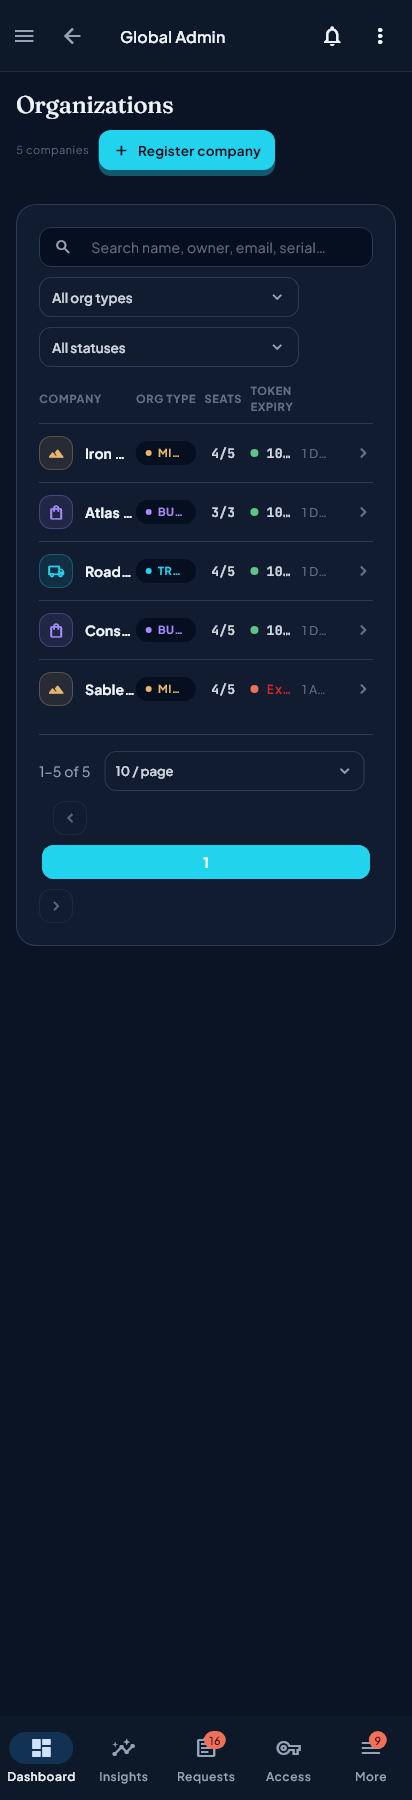
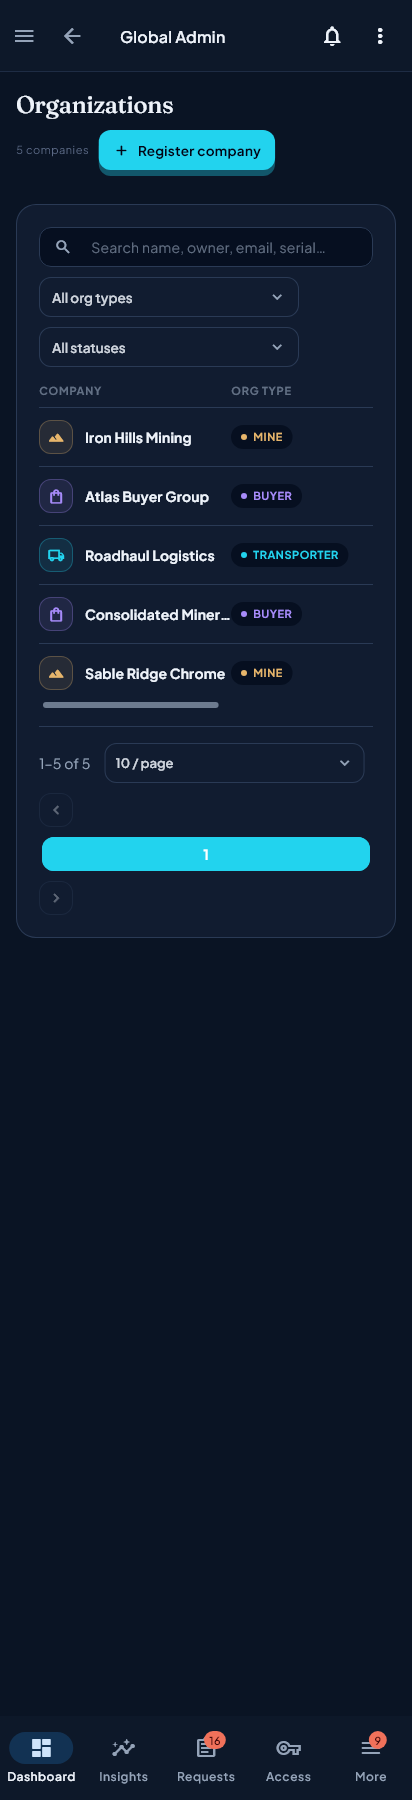
registry: a console screen that was blank on a phone, and an assertion the renders were hiding
THE ORGANISATION REGISTRY HAD NO READABLE COLUMN AT 412px.

Its four columns are `Expanded`s with no minimum, so each got about 70px and
every one truncated:

  COMPANY       "Iron …"  "Atlas …"  "Road…"  "Cons…"  "Sable…"
  ORG TYPE      "MI…"     "BU…"      "TR…"
  TOKEN EXPIRY  "10…"     "1D…"      "Ex…"    "1A…"

A registry where no column can be read is not a narrow registry, it is a blank
one — and it passed every sweep, because an ellipsis is a layout that fits.

`MlWideTable(minWidth: 620)`, header and rows inside ONE of them so they scroll
together. 620 is what the content needs: a company name wants ~180px at flex 16,
the "TRANSPORTER" pill ~100px at flex 10, the expiry ~110px at flex 13 — the
widest puts the table at 584 plus the 44px chevron column. So it never scrolls
on a laptop and always scrolls on a phone, which is the right way round, and the
test asserts BOTH directions.

A `Spacer` INSIDE A `Wrap`, THROWING ON EVERY BUILD.

A `Spacer` is an `Expanded`, and a `Wrap` cannot accept `FlexParentData` — the
footer threw "Incorrect use of ParentDataWidget" on every frame of this screen,
in debug, which is every frame a developer sees. The comment directly above that
`Wrap` claimed "every child here is unflexed"; the Spacer is what falsified it,
presumably left behind when the footer changed from a `Row`.

Nothing replaces it. A Wrap has no free space to distribute, so the Spacer could
not have pushed the pager right even if it had been legal.
[…]

Changed region(s): [[0.0874, 0.2178, 0.8155, 0.4356], [0.0874, 0.4667, 0.9029, 0.4978], [0.8155, 0.4044, 0.8447, 0.4356]]

diff --git a/test/features/super_admin/organizations_registry_test.dart b/test/features/super_admin/organizations_registry_test.dart
@@ -1,0 +1,109 @@
+// The registry is the console's front door, and on a phone it was blank.
+//
+// `OrganizationManagementScreen` lays its four columns out as `Expanded`s with
+// no minimum, so at 412px each got roughly 70px and every one truncated:
+//
+//   COMPANY       "Iron …"  "Atlas …"  "Road…"  "Cons…"  "Sable…"
+//   ORG TYPE      "MI…"     "BU…"      "TR…"
+//   TOKEN EXPIRY  "10…"     "1D…"      "Ex…"    "1A…"
+//
+// A registry where no column can be read is not a narrow registry, it is a
+// blank one — and it passed every sweep, because an ellipsis is a layout that
+// fits. Found 2026-08-20 by rendering the screen at phone width for the first
+// time.
+//
+// The fix is `MlWideTable`: the table scrolls sideways below the width its own
+// content needs, rather than compressing into it.
+import 'package:flutter/material.dart';
+import 'package:flutter/rendering.dart';
+import 'package:flutter_riverpod/flutter_riverpod.dart';
+import 'package:flutter_test/flutter_test.dart';
+import 'package:shared_preferences/shared_preferences.dart';
+import 'package:supabase_flutter/supabase_flutter.dart';
+
+import 'package:flutter_application_1/core/design/components/ml_components.dart';
+import 'package:flutter_application_1/core/theme/app_theme.dart';
+import 'package:flutter_application_1/features/super_admin/screens/organization_management_screen.dart';
+
+import '../../fixtures/console_capture_fixtures.dart';
+import '../../fixtures/screen_fixtures.dart';
+import '../../test_helpers/real_fonts.dart';
+
+void main() {
+  setUpAll(() async {
+    await loadRealFonts();
+    SharedPreferences.setMockInitialValues({});
+    await Supabase.initialize(
+      url: 'http://localhost:54321',
+      anonKey: 'org-registry',
+    );
+  });
+
+  Future<void> pumpRegistry(WidgetTester tester, double width) async {
+    tester.view.physicalSize = Size(width, 1800);
+    tester.view.devicePixelRatio = 1.0;
+    addTearDown(tester.view.reset);
+    await tester.pumpWidget(ProviderScope(
+      overrides: [...companyScopeOverrides(), ...consoleCaptureOverrides()],
+      child: MaterialApp(
+        theme: AppTheme.darkTheme,
+        home: const Scaffold(body: OrganizationManagementScreen()),
+      ),
+    ));
+    await tester.pump();
+    await tester.pump(const Duration(milliseconds: 400));
+  }
+
+  List<bool> truncations(WidgetTester tester, String text) => [
+        for (final e in find.text(text).evaluate())
+          (e.renderObject! as RenderParagraph).didExceedMaxLines,
+      ];
+
+  for (final width in const [360.0, 412.0]) {
+    testWidgets('the registry keeps its words at ${width.toInt()}px',
+        (tester) async {
+      await pumpRegistry(tester, width);
+
+      // The org-type pill is the shortest column's content and the first thing
+      // that went. `TRANSPORTER` is the widest of the three.
+      for (final label in const ['MINE', 'BUYER', 'TRANSPORTER']) {
+        final found = truncations(tester, label);
+        expect(found, isNotEmpty,
+            reason: '"$label" is not in the registry. `kOrganizations` carries '
+                'one of each org type; if that changed, change this too.');
+        expect(found.any((t) => t), isFalse,
+            reason: '"$label" is truncated at ${width.toInt()}px. The org-type '
+                'column is being compressed instead of the table scrolling.');
+      }
+
+      // A company name that comfortably fits its column must not ellipsise.
+      // (The 48-character one in the fixture legitimately does — a name column
+      // is allowed to ellipsise a name; it is not allowed to ellipsise ALL of
+      // them.)
+      final iron = truncations(tester, 'Iron Hills Mining');
+      expect(iron, isNotEmpty);
+      expect(iron.any((t) => t), isFalse,
+          reason: 'a 17-character company name is being cut. That is the '
+              'column having ~70px rather than the ~180 a name needs.');
+    });
+  }
+
+  testWidgets('the registry scrolls rather than compressing', (tester) async {
+    await pumpRegistry(tester, 412);
+    expect(find.byType(MlWideTable), findsWidgets,
+        reason: 'the table is laid straight into the page again, so its '
+            'columns compress on a phone instead of the table scrolling. '
+            'MlWideTable is the component for exactly this and it draws a '
+            'scrollbar, which is what tells a reader there are columns past '
+            'the edge.');
+  });
+
+  testWidgets('and it does NOT scroll on a desktop', (tester) async {
+    // A scrollbar over content that fits is a promise of more. 620 is what the
+    // content needs; a 1600px console is far above it.
+    await pumpRegistry(tester, 1600);
+    expect(find.byType(Scrollbar), findsNothing,
+        reason: 'the registry is scrolling on a 1600px window, which means its '
+            'declared minimum has grown past what the columns actually need.');
+  });
+}

diff --git a/lib/features/super_admin/screens/organization_management_screen.dart b/lib/features/super_admin/screens/organization_management_screen.dart
@@ -321,10 +321,35 @@ class _OrganizationManagementScreenState
               ),
             ),
           )
-        else ...[
-          _headerRow(s),
-          for (final o in shown) _dataRow(context, s, o),
-        ],
+        else
+          // The registry SCROLLS below 620px rather than compressing.
+          //
+          // Its four columns are all `Expanded`, so on a 412px phone they got
+          // roughly 70px each and every one of them truncated: the company
+          // names read "Iron …", "Atlas …", "Cons…", the org-type pills read
+          // "MI…", "BU…", "TR…" and the token expiry read "10…", "1D…", "Ex…".
+          // A registry where no column can be read is not a narrow registry, it
+          // is a blank one. Photographed 2026-08-20, the first time this screen
+          // was rendered at phone width.
+          //
+          // 620 is what the CONTENT needs: a company name wants ~180px at
+          // flex 16, the "TRANSPORTER" pill ~100px at flex 10, and the expiry
+          // ~110px at flex 13 — the widest of those puts the table at 584 plus
+          // the 44px chevron column. It therefore never scrolls on a laptop and
+          // always scrolls on a phone, which is the right way round.
+          //
+          // Header and rows go inside ONE `MlWideTable` so they scroll
+          // together; two would drift apart the moment anyone touched it.
+          MlWideTable(
+            minWidth: 620,
+            child: Column(
+              crossAxisAlignment: CrossAxisAlignment.stretch,
+              children: [
+                _headerRow(s),
+                for (final o in shown) _dataRow(context, s, o),
+              ],
+            ),
+          ),
         // ── Pagination footer ──
         Container(
           margin: const EdgeInsets.only(top: 16),
@@ -361,7 +386,20 @@ class _OrganizationManagementScreenState
                     DropdownMenuItem(value: n, child: Text('$n / page')),
                 ],
               ),
-              const Spacer(),
+              // NO `Spacer` HERE. A `Spacer` is an `Expanded`, and a `Wrap`
+              // cannot accept `FlexParentData` — it throws "Incorrect use of
+              // ParentDataWidget" on every build of this screen, in debug,
+              // which is every build a developer ever sees.
+              //
+              // The comment above this Wrap said "every child here is
+              // unflexed", and that was the claim the Spacer falsified. It was
+              // presumably left behind when the footer changed from a `Row`.
+              //
+              // Nothing replaces it: a Wrap has no free space to distribute, so
+              // the Spacer could never have pushed the pager right even if it
+              // had been legal. The pager sits after the rows-per-page control
+              // and wraps under it when the footer is narrow, which is what the
+              // Wrap is for.
               _pageBtn(
                 s,
                 Icons.chevron_left_rounded,

diff --git a/test/renders/redesign_renders_test.dart b/test/renders/redesign_renders_test.dart
@@ -217,7 +217,19 @@ void main() {
       final s = d.exception.toString();
       if (s.contains('overflowed') ||
           s.contains('forces an infinite') ||
-          s.contains('BoxConstraints')) {
+          s.contains('BoxConstraints') ||
+          // A misused ParentDataWidget throws on every build and is NOT a
+          // layout fault by the three tests above, so it fell through to
+          // `previousOnError` — where `tester.takeException()` swallowed it and
+          // the render was written anyway.
+          //
+          // That is exactly what happened to the organisation registry: a
+          // `Spacer` inside a `Wrap` (a `Spacer` IS an `Expanded`, and a `Wrap`
+          // cannot take `FlexParentData`) threw "Incorrect use of
+          // ParentDataWidget" on every frame, and the golden looked fine. It
+          // was found only because a widget test on the same screen reported
+          // it — which is one screen's luck, not a system.
+          s.contains('ParentDataWidget')) {
         captured.add(s.split('\n').first);
       } else {
         previousOnError?.call(d);
